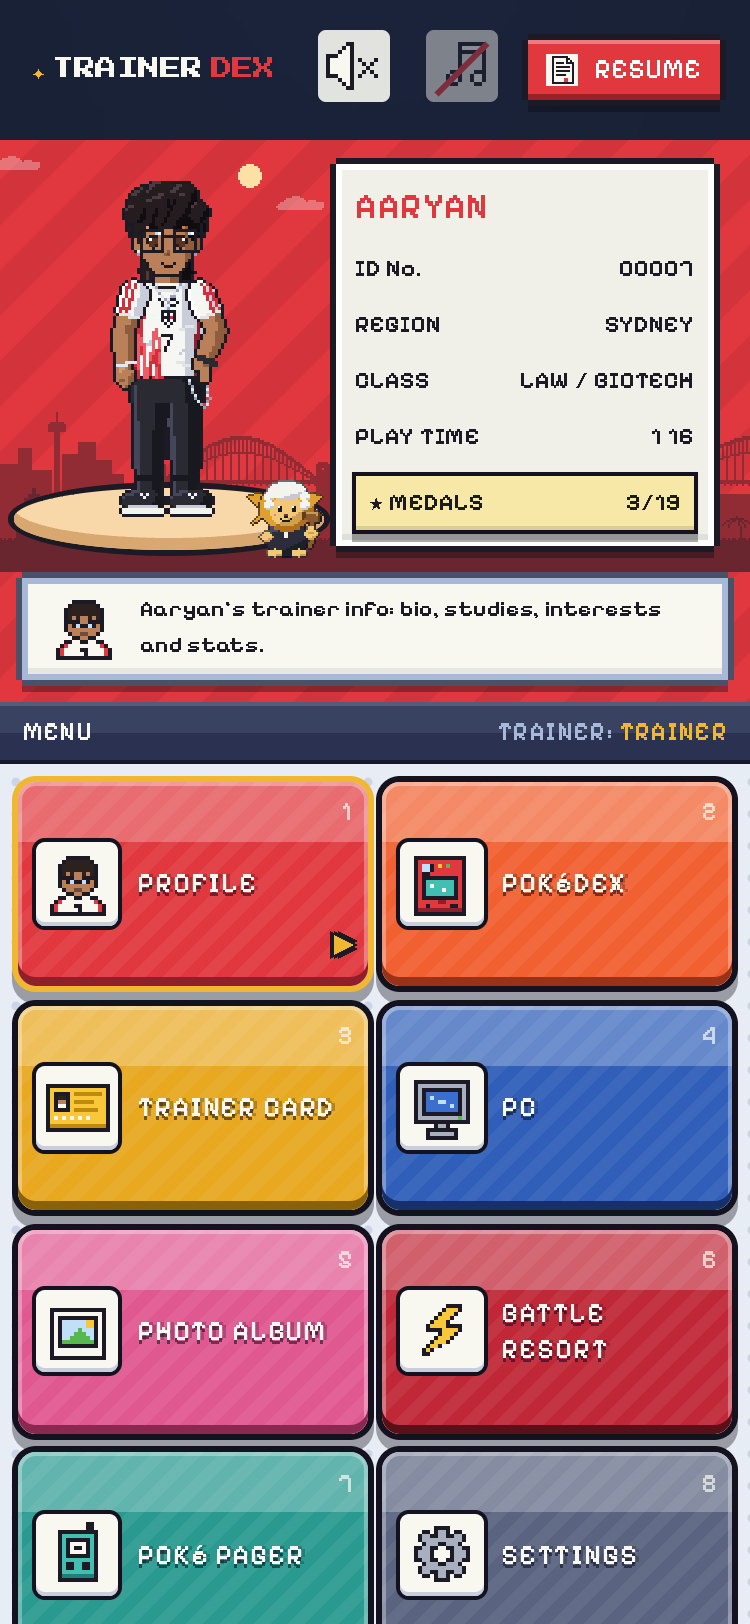
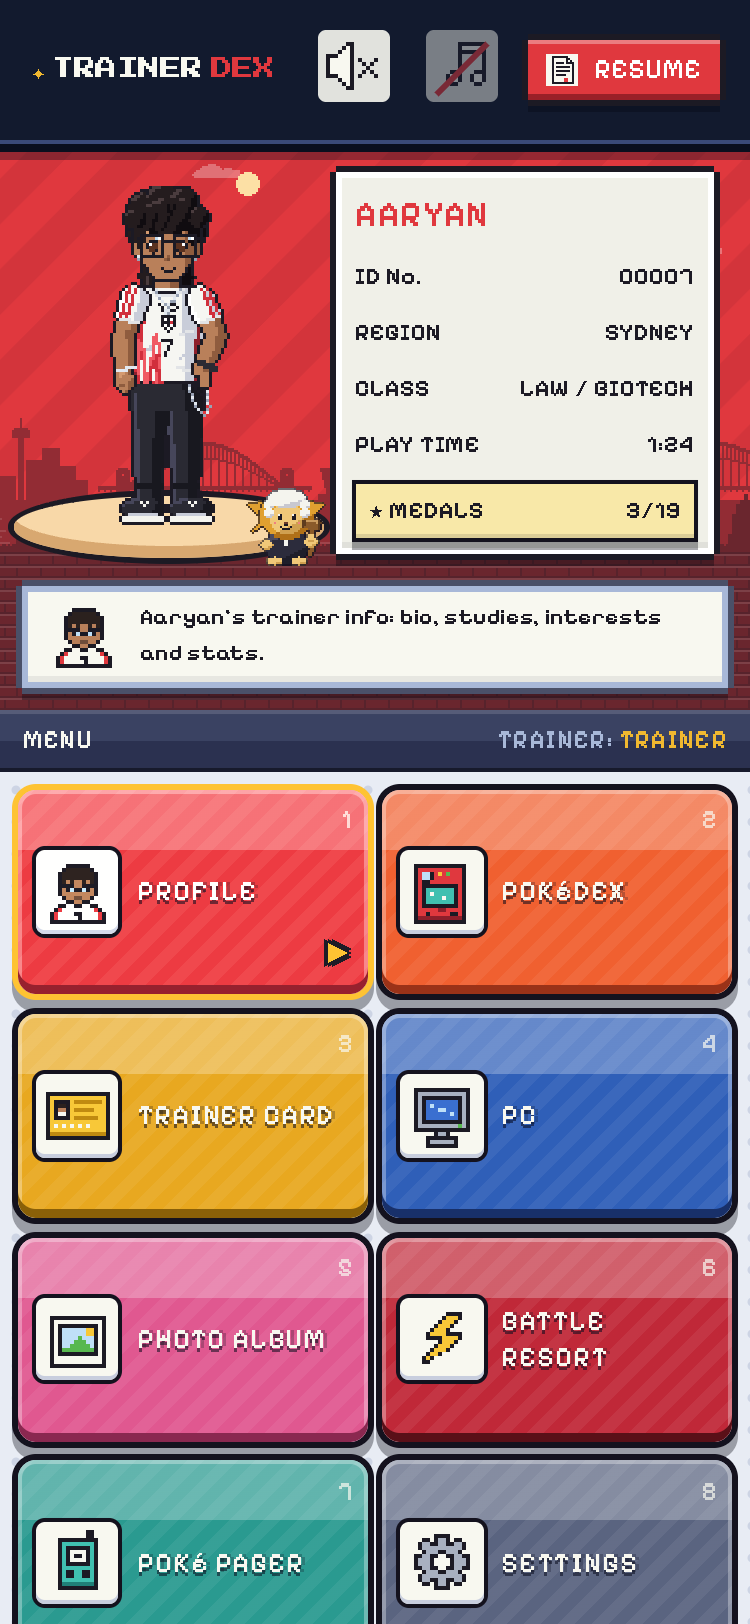
Framed top bar, steadier page pattern, Medal Hall hung to the ceiling
- System bar: a solid full-width band with a framed bottom edge (dark,
  light, dark lines, as on the game windows), sticky on phones, so the
  page pattern starts cleanly below it instead of sliding behind it.
- Page pattern: it drifts one whole pixel at a time (fractional moves
  made the pixel art shimmer), and the fade toward the top is a fixed
  layer over it rather than a mask on the moving layer, so it no longer
  jumps each time the drift loops.
- Medal Hall: the walls are hung salon-style to the ceiling. Above the
  back wall, four columns between the lamp cords alternate one larger
  picture and two smaller; each side wall has four columns from the dado
  rail up. The gallery: Aaryan (and his shiny look), his past selves
  from the tower, every creature, the resort's regulars and staff, and
  landscapes of six Pokédex habitats, each in a gilt frame on its own
  coloured mat.
- QA captures in docs/qa.

Changed region(s): [[0.0, 0.0616, 1.0, 1.0]]

diff --git a/src/screens/MedalHall.tsx b/src/screens/MedalHall.tsx
@@ -1,8 +1,11 @@
 import { useEffect, useRef, useState, type PointerEvent } from 'react'
 import { navigate } from '../app/router'
 import { medals } from '../content/medals'
-import { signature, towerStages } from '../content/aaryan'
+import { shinySignature, signature, towerStages } from '../content/aaryan'
 import { staff } from '../resort/npcs'
+import { regulars } from '../resort/regulars'
+import { habitatIds, paintHabitat, type HabitatId } from '../sprites/habitats'
+import { HAB_H, HAB_W } from '../sprites/habitat-kit'
 import { blocked, CASES, CURATOR, DOOR, ENTRANCE, hall, nearestFloor, pathTo, PODIUM, slotOf, standFor, type Case } from '../resort/medalHall'
 import { cameraYToShow, drawWorld, pixelCanvas, RES, unproject, VIEW_H, VIEW_W, type Actor, type Camera, type CreatureActor, type WorldItem } from '../resort/render'
 import { structureArt } from '../resort/structures'
@@ -165,13 +168,13 @@ const backWall = () => pixelCanvas(tiles.X.prop!.px, tilePalette, 'prop:X')
 
 /* ---------------- pictures on the walls ---------------- */
 
-/** A picture in a gilt frame, at art resolution (shown at half size in the world, like the walkers). */
+/** A picture in a gilt frame, at art resolution: `paint` draws the picture itself into the inside (w × h). */
 const framedCache = new Map<string, HTMLCanvasElement>()
-function framed(key: string, art: Pixels, pal: Palette, mat: string): HTMLCanvasElement {
+function framedWith(key: string, aw: number, ah: number, mat: string, paint: (g: CanvasRenderingContext2D, x: number, y: number) => void): HTMLCanvasElement {
   const hit = framedCache.get(key)
   if (hit) return hit
   const F = 6
-  const [w, h] = [art[0].length + F * 2, art.length + F * 2]
+  const [w, h] = [aw + F * 2, ah + F * 2]
   const cv = document.createElement('canvas')
   cv.width = w
   cv.height = h
@@ -189,30 +192,112 @@ function framed(key: string, art: Pixels, pal: Palette, mat: string): HTMLCanvas
   // the mat, a little lighter at the top, then the picture
   rect(F, F, w - F * 2, h - F * 2, mat)
   rect(F, F, w - F * 2, Math.round((h - F * 2) / 3), mixWhite(mat))
-  art.forEach((row, y) => [...row].forEach((ch, x) => ch !== '.' && rect(F + x, F + y, 1, 1, pal[ch])))
+  paint(g, F, F)
   framedCache.set(key, cv)
   return cv
+}
+function framed(key: string, art: Pixels, pal: Palette, mat: string): HTMLCanvasElement {
+  return framedWith(key, art[0].length, art.length, mat, (g, x0, y0) =>
+    art.forEach((row, y) =>
+      [...row].forEach((ch, x) => {
+        if (ch === '.') return
+        g.fillStyle = pal[ch]
+        g.fillRect(x0 + x, y0 + y, 1, 1)
+      }),
+    ),
+  )
 }
 const mixWhite = (h: string) => `#${[1, 3, 5].map((i) => Math.round(parseInt(h.slice(i, i + 2), 16) * 0.7 + 255 * 0.3).toString(16).padStart(2, '0')).join('')}`
 
 const portraitOf = (look: Appearance) => crop(renderFlat(look), PORTRAIT.x, PORTRAIT.y, PORTRAIT.w, PORTRAIT.h)
-/** On the wallpaper above the back wall: Aaryan's portrait and his partners', between the lamp cords. */
-const BACK_PICTURES = [
-  { key: 'aaryan', at: 84, art: () => portraitOf(signature), pal: () => paletteFor(signature), mat: '#8cc4ec' },
-  { key: 'gavelion', at: 140, art: () => creatureArt.gavelion.pixels, pal: () => creatureArt.gavelion.palette, mat: '#f0d898' },
-  { key: 'megaphawk', at: 26, art: () => creatureArt.megaphawk.pixels, pal: () => creatureArt.megaphawk.palette, mat: '#b8e0b0' },
-  { key: 'helixor', at: 198, art: () => creatureArt.helixor.pixels, pal: () => creatureArt.helixor.palette, mat: '#e8c0d8' },
-] as const
-/** Along the side walls: Aaryan at each stage of the tower (his past selves), two to a wall. */
-const SIDE_PICTURES = towerStages.slice(0, 4).map((st, i) => ({ key: `stage:${st.id}`, look: st.look, wall: i < 2 ? 0 : 1, depth: i % 2 ? 100 : 60, mat: ['#a8b8d8', '#e8d8b0', '#d8b0b8', '#b0d8d0'][i] }))
-/** How high the pictures hang (world px above the floor, to their bottom edge). */
-const BACK_HANG = 98
-const SIDE_HANG = 50
-
-function backPicture(i: number) {
-  const b = BACK_PICTURES[i]
-  return framed(b.key, b.art(), b.pal(), b.mat)
+/** A Pokédex habitat as a small landscape painting (the scene scaled down, softly, like brushwork). */
+function landscape(id: HabitatId, mat: string): HTMLCanvasElement {
+  return framedWith(`habitat:${id}`, 64, 48, mat, (g, x, y) => {
+    const src = document.createElement('canvas')
+    src.width = HAB_W
+    src.height = HAB_H
+    src.getContext('2d')!.putImageData(new ImageData(paintHabitat(id, 0).toRGBA() as Uint8ClampedArray<ArrayBuffer>, HAB_W, HAB_H), 0, 0)
+    g.imageSmoothingEnabled = true
+    g.imageSmoothingQuality = 'high'
+    g.drawImage(src, x, y, 64, 48)
+  })
 }
+
+const MATS = ['#8cc4ec', '#f0d898', '#b8e0b0', '#e8c0d8', '#a8b8d8', '#e8d8b0', '#d8b0b8', '#b0d8d0']
+/**
+ * Everything on the walls, in hanging order: Aaryan (and his shiny look), his partners and the
+ * other creatures, his past selves from the tower, the resort's regulars and staff, and a few
+ * landscapes of the Pokédex habitats. Built on first use (the hall's own chunk).
+ */
+let gallery: HTMLCanvasElement[] | undefined
+function galleryPictures(): HTMLCanvasElement[] {
+  if (gallery) return gallery
+  const people: Array<[string, Appearance]> = [
+    ['aaryan', signature],
+    ...towerStages.map((st) => [`stage:${st.id}`, st.look] as [string, Appearance]),
+    ['aaryan-shiny', shinySignature],
+    ...regulars.map((r) => [`regular:${r.id}`, r.look] as [string, Appearance]),
+    ...staff.map((st) => [`staff:${st.id}`, st.look] as [string, Appearance]),
+  ]
+  const creatures = Object.keys(creatureArt)
+  const scenes = habitatIds.slice(0, 6)
+  const out: HTMLCanvasElement[] = []
+  // interleave the three kinds, so no wall is all faces or all creatures
+  for (let i = 0; out.length < people.length + creatures.length + scenes.length; i++) {
+    const mat = MATS[i % MATS.length]
+    if (i < creatures.length) out.push(framed(`creature:${creatures[i]}`, creatureArt[creatures[i]].pixels, creatureArt[creatures[i]].palette, mat))
+    if (i < people.length) out.push(framed(`person:${people[i][0]}`, portraitOf(people[i][1]), paletteFor(people[i][1]), MATS[(i + 3) % MATS.length]))
+    if (i < scenes.length) out.push(landscape(scenes[i], '#3a3448'))
+  }
+  gallery = out
+  return out
+}
+
+/** One hung picture: where on which wall, its bottom edge's height and its width (world px). */
+interface Hung {
+  wall: 'back' | 'left' | 'right'
+  /** x along the back wall, or depth along a side wall (its left/back edge) */
+  at: number
+  hang: number
+  width: number
+  pic: number
+}
+/** How high the walls are hung (world px): rows up to here, past the top of the tallest view. */
+const HANG_TOP = 300
+/**
+ * The hang, salon-style, filling every wall to the ceiling: above the back wall, four columns
+ * between the lamp cords, rows alternating one larger picture and two smaller; on each side wall,
+ * four columns above the dado rail. Pictures are taken from the gallery in turn.
+ */
+const HANG: Hung[] = (() => {
+  const out: Hung[] = []
+  let n = 0
+  const aspect = 1.12 // a picture's height for its width, near enough for spacing the rows
+  for (let col = 0; col < 4; col++) {
+    let hang = WALL_TOP + 8
+    for (let row = 0; hang < HANG_TOP; row++) {
+      const x0 = col * 56 + 4
+      if ((row + col) % 2 === 0) {
+        out.push({ wall: 'back', at: x0 + 9, hang, width: 30, pic: n++ })
+        hang += 30 * aspect + 7
+      } else {
+        out.push({ wall: 'back', at: x0, hang, width: 22, pic: n++ })
+        out.push({ wall: 'back', at: x0 + 26, hang, width: 22, pic: n++ })
+        hang += 22 * aspect + 7
+      }
+    }
+  }
+  for (const wall of ['left', 'right'] as const)
+    for (let col = 0; col < 4; col++) {
+      let hang = WALL_TOP - 36
+      for (let row = 0; hang < HANG_TOP; row++) {
+        const w = (row + col) % 3 === 0 ? 26 : 22
+        out.push({ wall, at: 38 + col * 30 + (26 - w) / 2, hang, width: w, pic: n++ })
+        hang += w * aspect + 8
+      }
+    }
+  return out
+})()
 
 /** The hall's shell: back wall and wallpaper up to the ceiling, and the side walls (in view px; drawn at RES). */
 function drawShell(c: CanvasRenderingContext2D, proj: Proj, vh: number) {
@@ -260,33 +345,34 @@ function drawShell(c: CanvasRenderingContext2D, proj: Proj, vh: number) {
     quad(WALL_TOP - 44, WALL_TOP - 44, WALL_TOP - 42, WALL_TOP - 42, '#8a92a8')
     quad(WALL_TOP - 3, WALL_TOP - 3, WALL_TOP, WALL_TOP, '#8a92a8')
   }
-  // pictures on the wallpaper above the back wall (art at half size, like the walkers)
+  // the pictures, hung to the ceiling: flat on the back wall, skewed along the side walls
   c.imageSmoothingEnabled = false
-  BACK_PICTURES.forEach((b, i) => {
-    const img = backPicture(i)
-    const p = proj(b.at - img.width / 4, back)
-    const [w, h] = [(img.width / 2) * p.s, (img.height / 2) * p.s]
-    const x0 = Math.round(p.x * R)
-    const y0 = Math.round((p.y - BACK_HANG * p.s - h) * R)
-    c.fillStyle = 'rgba(20,24,40,0.25)'
-    c.fillRect(x0 + Math.round(p.s * R), y0 + Math.round(p.s * R), Math.round(w * R), Math.round(h * R))
-    c.drawImage(img, x0, y0, Math.round(w * R), Math.round(h * R))
-  })
-  // and on the side walls, seen at an angle: each picture is skewed along its wall
-  for (const sp of SIDE_PICTURES) {
-    const img = framed(sp.key, portraitOf(sp.look), paletteFor(sp.look), sp.mat)
-    const x = sp.wall ? HALL_W : 0
-    const [iw, ih] = [img.width / 2, img.height / 2]
-    // the picture runs along the wall from depth (back) to depth + iw (front)
-    const [d0, d1] = sp.wall ? [sp.depth, sp.depth + iw] : [sp.depth, sp.depth + iw]
-    const pb = proj(x, d0)
-    const pf = proj(x, d1)
-    const top = (q: { x: number; y: number; s: number }) => ({ x: q.x * R, y: (q.y - (SIDE_HANG + ih) * q.s) * R })
+  const pics = galleryPictures()
+  for (const hp of HANG) {
+    const img = pics[hp.pic % pics.length]
+    const ww = hp.width
+    const wh = (img.height / img.width) * ww
+    if (hp.wall === 'back') {
+      const p = proj(hp.at, back)
+      const [w, h] = [ww * p.s, wh * p.s]
+      const x0 = Math.round(p.x * R)
+      const y0 = Math.round((p.y - hp.hang * p.s - h) * R)
+      if (y0 + h * R < 0) continue
+      c.fillStyle = 'rgba(20,24,40,0.25)'
+      c.fillRect(x0 + Math.round(p.s * R), y0 + Math.round(p.s * R), Math.round(w * R), Math.round(h * R))
+      c.drawImage(img, x0, y0, Math.round(w * R), Math.round(h * R))
+      continue
+    }
+    // a side wall: the picture runs along the wall from depth `at` (back) to `at + width` (front)
+    const x = hp.wall === 'right' ? HALL_W : 0
+    const pb = proj(x, hp.at)
+    const pf = proj(x, hp.at + ww)
+    const top = (q: { x: number; y: number; s: number }) => ({ x: q.x * R, y: (q.y - (hp.hang + wh) * q.s) * R })
     const tb = top(pb)
     const tf = top(pf)
-    const hb = ih * pb.s * R
+    if (tb.y + wh * pb.s * R < 0 && tf.y + wh * pf.s * R < 0) continue
     c.save()
-    c.setTransform((tf.x - tb.x) / img.width, (tf.y - tb.y) / img.width, 0, hb / img.height, tb.x, tb.y)
+    c.setTransform((tf.x - tb.x) / img.width, (tf.y - tb.y) / img.width, 0, (wh * pb.s * R) / img.height, tb.x, tb.y)
     c.drawImage(img, 0, 0)
     // the side walls face across the room: the pictures on them catch a little less light
     c.fillStyle = 'rgba(20,24,40,0.12)'

diff --git a/src/app/SystemBar.tsx b/src/app/SystemBar.tsx
@@ -14,53 +14,55 @@ export function SystemBar() {
   }
 
   return (
-    <header className="sticky top-0 z-40 flex w-full max-w-[1500px] items-center justify-between gap-2 bg-screen-bg/90 px-3 py-2 backdrop-blur-sm sm:static sm:bg-transparent sm:px-1 sm:pb-3">
-      <a
-        href="#/"
-        onClick={() => sfx('back')}
-        className="rounded-sm px-1 py-2 no-underline"
-        aria-label="The TrainerDex — main menu"
-      >
-        <Logo size="sm" />
-      </a>
-      <nav aria-label="Quick settings" className="flex items-center gap-1">
-        <button
-          type="button"
-          className="pixel-btn pixel-btn--ghost !p-1"
-          aria-pressed={saved.sfx}
-          aria-label={saved.sfx ? 'Sound effects on' : 'Sound effects off'}
-          title={saved.sfx ? 'Sound effects: ON' : 'Sound effects: OFF'}
-          onClick={() => toggle('sfx')}
+    <div className="system-band">
+      <header className="flex w-full max-w-[1500px] items-center justify-between gap-2 px-3 pt-2 pb-3 sm:px-5">
+        <a
+          href="#/"
+          onClick={() => sfx('back')}
+          className="rounded-sm px-1 py-2 no-underline"
+          aria-label="The TrainerDex — main menu"
         >
-          <span className="inline-flex rounded-sm bg-paper/90 p-0.5">
-            <PixelIcon name={saved.sfx ? 'soundOn' : 'soundOff'} scale={2} />
-          </span>
-        </button>
-        <button
-          type="button"
-          className="pixel-btn pixel-btn--ghost !p-1"
-          aria-pressed={saved.music}
-          aria-label={saved.music ? 'Music on' : 'Music off'}
-          title={saved.music ? 'Music: ON' : 'Music: OFF'}
-          onClick={() => toggle('music')}
-        >
-          <span className={`relative inline-flex rounded-sm bg-paper/90 p-0.5 ${saved.music ? '' : 'opacity-50'}`}>
-            <PixelIcon name="music" scale={2} />
-            {!saved.music && <span aria-hidden className="absolute top-1/2 left-0 h-[3px] w-full -rotate-45 bg-dex-red" />}
-          </span>
-        </button>
-        <button
-          type="button"
-          className="pixel-btn pixel-btn--primary ml-1 inline-flex items-center gap-2 !text-[14px]"
-          onClick={() => {
-            sfx('open')
-            navigate('/pc/resume')
-          }}
-        >
-          <PixelIcon name="resume" scale={1} className="bg-paper" />
-          RESUME
-        </button>
-      </nav>
-    </header>
+          <Logo size="sm" />
+        </a>
+        <nav aria-label="Quick settings" className="flex items-center gap-1">
+          <button
+            type="button"
+            className="pixel-btn pixel-btn--ghost !p-1"
+            aria-pressed={saved.sfx}
+            aria-label={saved.sfx ? 'Sound effects on' : 'Sound effects off'}
+            title={saved.sfx ? 'Sound effects: ON' : 'Sound effects: OFF'}
+            onClick={() => toggle('sfx')}
+          >
+            <span className="inline-flex rounded-sm bg-paper/90 p-0.5">
+              <PixelIcon name={saved.sfx ? 'soundOn' : 'soundOff'} scale={2} />
+            </span>
+          </button>
+          <button
+            type="button"
+            className="pixel-btn pixel-btn--ghost !p-1"
+            aria-pressed={saved.music}
+            aria-label={saved.music ? 'Music on' : 'Music off'}
+            title={saved.music ? 'Music: ON' : 'Music: OFF'}
+            onClick={() => toggle('music')}
+          >
+            <span className={`relative inline-flex rounded-sm bg-paper/90 p-0.5 ${saved.music ? '' : 'opacity-50'}`}>
+              <PixelIcon name="music" scale={2} />
+              {!saved.music && <span aria-hidden className="absolute top-1/2 left-0 h-[3px] w-full -rotate-45 bg-dex-red" />}
+            </span>
+          </button>
+          <button
+            type="button"
+            className="pixel-btn pixel-btn--primary ml-1 inline-flex items-center gap-2 !text-[14px]"
+            onClick={() => {
+              sfx('open')
+              navigate('/pc/resume')
+            }}
+          >
+            <PixelIcon name="resume" scale={1} className="bg-paper" />
+            RESUME
+          </button>
+        </nav>
+      </header>
+    </div>
   )
 }

diff --git a/src/styles/index.css b/src/styles/index.css
@@ -1463,26 +1463,57 @@ body {
   animation: none;
 }
 
-/* The page backdrop's pattern (ui/pagePattern.ts): the menu icons as faint silhouettes on a
-   staggered grid, drifting slowly down and across behind the game windows */
+/* The page backdrop's pattern (ui/pagePattern.ts): the menu icons as faint line art on a staggered
+   grid, drifting slowly down and across behind the game windows, one whole pixel at a time (a
+   pixel pattern moved by fractions of a pixel shimmers). A fixed glow over it, not a mask on the
+   moving layer, lets it fade toward the top, so the fade never jumps when the drift loops. */
 body::before {
   content: '';
   position: fixed;
-  inset: calc(var(--page-pattern-size, 112px) * -1) 0 0 calc(var(--page-pattern-size, 112px) * -1);
-  z-index: -1;
+  inset: calc(var(--page-pattern-size, 128px) * -1) 0 0 calc(var(--page-pattern-size, 128px) * -1);
+  z-index: -2;
   pointer-events: none;
   background-image: var(--page-pattern, none);
-  background-size: var(--page-pattern-size, 112px) var(--page-pattern-size, 112px);
+  background-size: var(--page-pattern-size, 128px) var(--page-pattern-size, 128px);
   image-rendering: pixelated;
-  /* fade out toward the top, where the title-screen glow is */
-  mask-image: linear-gradient(to bottom, rgb(0 0 0 / 0.55), #000 40%);
-  animation: page-pattern-drift 48s linear infinite;
+  animation: page-pattern-drift 64s steps(128) infinite;
+}
+body::after {
+  content: '';
+  position: fixed;
+  inset: 0;
+  z-index: -1;
+  pointer-events: none;
+  background: linear-gradient(to bottom, rgb(24 32 53 / 0.6), rgb(24 32 53 / 0) 45%);
 }
 @keyframes page-pattern-drift {
   to {
-    transform: translate(var(--page-pattern-size, 112px), var(--page-pattern-size, 112px));
+    transform: translate(var(--page-pattern-size, 128px), var(--page-pattern-size, 128px));
   }
 }
 [data-motion='reduced'] body::before {
   animation: none;
+}
+
+/* The system bar's band: solid, full width, with a framed bottom edge (dark line, light line,
+   dark line, as on the game windows), so the moving pattern starts cleanly below it */
+.system-band {
+  position: sticky;
+  top: 0;
+  z-index: 40;
+  align-self: stretch;
+  display: flex;
+  justify-content: center;
+  background: #121a2e;
+  box-shadow:
+    inset 0 -2px 0 #0a0f1e,
+    inset 0 -4px 0 #3a4a78,
+    0 2px 0 #0a0f1e,
+    0 6px 0 rgb(8 10 28 / 0.35);
+}
+@media (min-width: 640px) {
+  .system-band {
+    position: static;
+    margin: -8px -16px 14px;
+  }
 }
